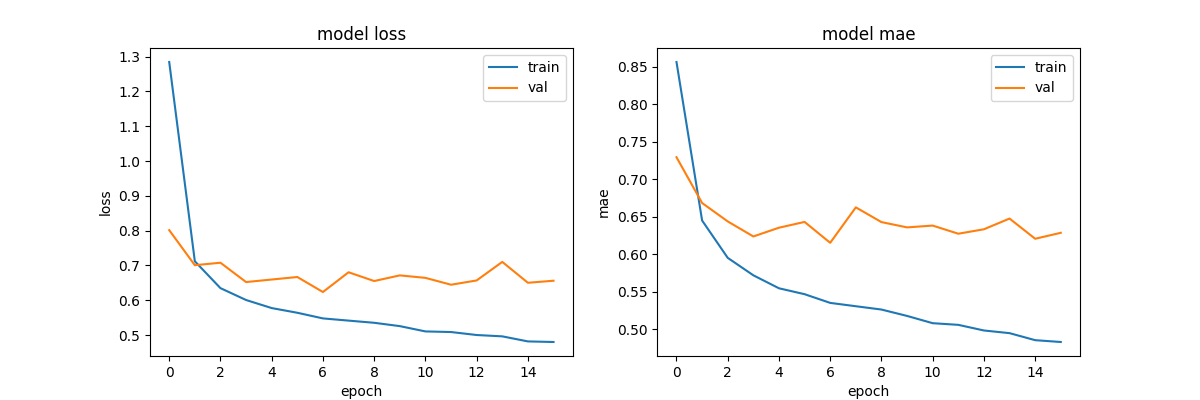
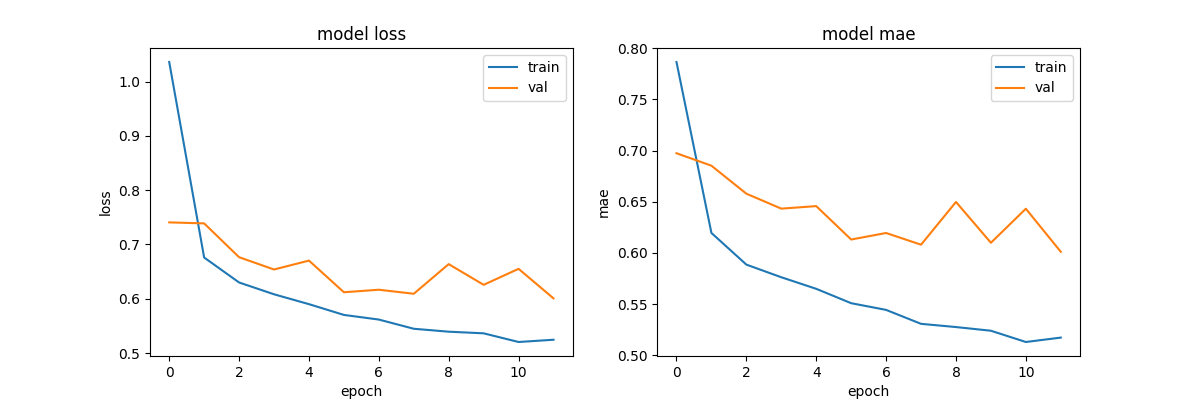
saved model

diff --git a/xgboost ensemble.py b/xgboost ensemble.py
@@ -70,7 +70,7 @@ model.compile(optimizer='adam', loss='mean_squared_error', metrics=['mae'])
 model.summary()
 
 
-history = model.fit(x_train, y_train, epochs=16, batch_size=32, validation_data=(x_val, y_val))
+history = model.fit(x_train, y_train, epochs=12, batch_size=32, validation_data=(x_val, y_val))
 
 graph_model_history(history, "cnn_xgb_graphs/cnn_feature_extractor_history.png", "mae")
 
